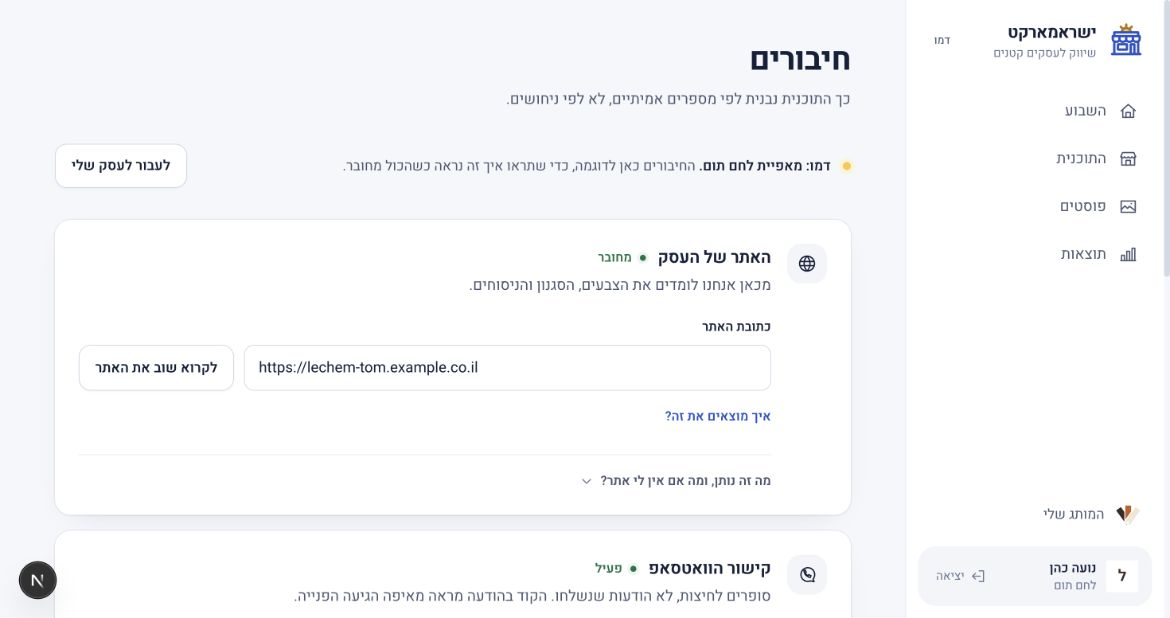
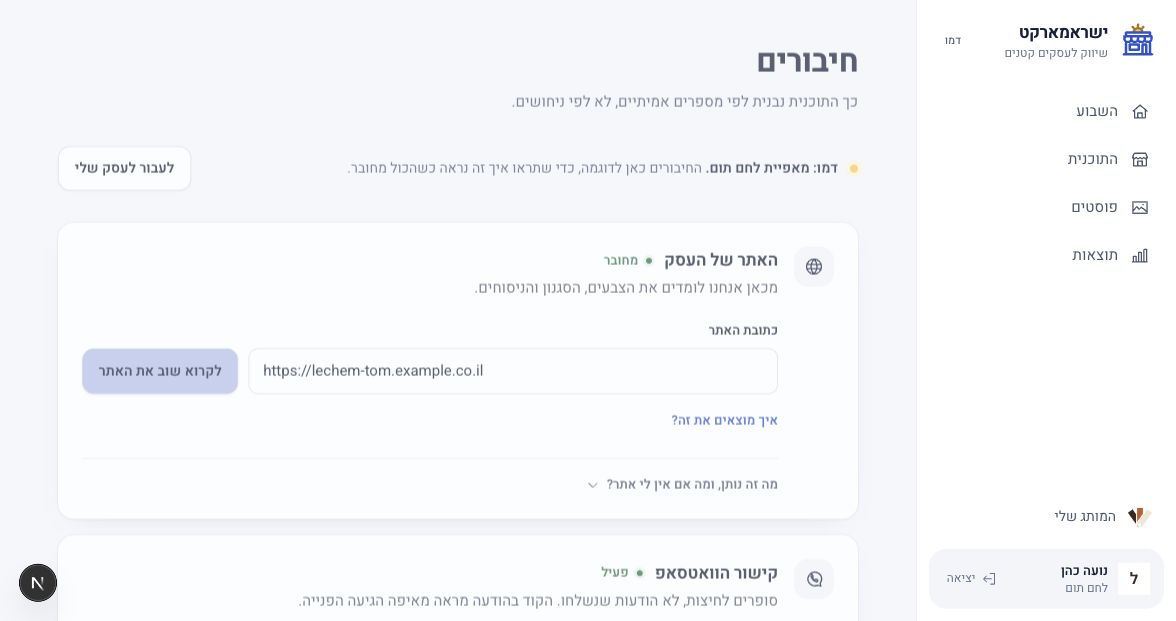
Refresh the flow map for verified GA4 source reads

diff --git a/web/lib/uxFlows.ts b/web/lib/uxFlows.ts
@@ -1,5 +1,5 @@
 /** A source-grounded review map, not an alternative onboarding implementation. */
-export const FLOW_SOURCE = "24a1ed8a071d61d3d52528aff7f6c5e76bfc5e54";
+export const FLOW_SOURCE = "ebfe6c245dab731bcf230f663e245e22303cb51d";
 export type FlowPersona = "store" | "designer" | "isramarket";
 export type FlowPhase = "before" | "after" | "ongoing";
 export type FlowCase = "normal" | "cancel" | "failure" | "missing";
@@ -61,7 +61,7 @@ export const FLOW_NODES: FlowNode[] = [
   post("dashboard", "כניסה ראשונה", "השבוע והצעד הבא", "/dashboard", "מה מקדם את התוכנית השבוע?", "הצעד הבא והתקדמות. הרשימה נגזרת ממצב העסק והדרישות הקיימות.", "להתחיל במדידה", "connections", "web/components/trial/TrialGuide.tsx", "הצעה #44: חיבור אחד מומלץ עם הסיבה שלו, בלי רשימת כלים ארוכה."),
   { ...post("connections", "מדידה", "בחירת חיבור", "/integrations", "מחברים את מה שיעזור לתוכנית", "העמוד הנוכחי מציג אתר, WhatsApp, Google ו-Meta. החיבור המודרך החדש הוא כרגע תצוגת UX נפרדת.", "נתוני האתר בדוגמה", "google", "web/app/integrations/page.tsx", "ליישם את /design/connections בחשבון אמיתי. פתיחת חלון הרשאה אינה הוכחת נתונים."), alternate: { label: "פייסבוק ואינסטגרם", next: "meta" }, branches: [{label:"קישור לשיחה",next:"whatsapp"},{label:"אם התוכנית דורשת כרטיס בגוגל",next:"gbp"}] },
   { ...post("google", "מדידה", "Google ונתוני האתר", "/integrations", "איזה אתר שייך לעסק?", "OAuth → בחירת נכס לפי שם → שמירת הנכס. חשבון הכניסה יכול להיות שונה מחשבון המדידה.", "החשבון נבחר", "baseline-post", "api/app/routers/integrations.py", "להראות מה חסר בפועל: חשבון לא נכון, גישה לנכס או קריאה שנכשלה."), alternate: {label:"הצעה: מצב קריאה מפורש",next:"source-read"}, recovery: "אפשר לחבר חשבון אחר. ביטול ההרשאה מחזיר לחיבורים. נכס לא מופיע כשאין גישה אליו; אין צורך להזין סיסמה אצלנו.", transition: "יוצאים לחלון Google, חוזרים ל-callback ולעמוד החיבורים; בוחרים את האתר לפי השם." },
-  { ...post("source-read", "מדידה", "קריאת הנתונים הראשונה", "/design/connections", "נבחר חשבון. עכשיו בודקים נתונים.", "הפרדה מפורשת בין הרשאה, בחירת נכס וקריאה שימושית: הודגם ב-UX, עדיין דורש חיבור מלא לחשבון האמיתי.", "לדמות קריאה מוצלחת", "baseline-post", "web/components/design/ConnectionWorkshop.tsx", "#45: נתונים חסרים אינם אפס. הצלחה נמדדת בקריאה אמיתית, עם זמן וטווח נתונים."), proposed: true, event: "source_read_succeeded", saved: "המצב הזה מקומי בתצוגת החיבורים. המכשור והמצב המלא עבור לקוח אמיתי עדיין פתוחים ב-#45.", recovery: "אין היסטוריה: מסבירים וממשיכים לאסוף. כשל גישה: מציעים חידוש. לא מוחקים את התוכנית." },
+  { ...post("source-read", "מדידה", "קריאת הנתונים הראשונה", "/integrations", "נבחר אתר. עכשיו בודקים נתונים.", "ב-Google, בחירת האתר מפעילה קריאה אמיתית ללא תלות בניתוח AI. הרשאה, בחירה, קריאה, נתונים וחידוש גישה מוצגים בנפרד. המצב המקביל ב-Meta עדיין פתוח ב-#45.", "לראות את התוצאות", "results", "api/app/services/ga4_readiness.py", "הקריאה הראשונה וההתאוששות נבדקו במבחנים ובדמו; עדיין נדרשת בדיקת חשבון לקוח חי וביקורת Claude."), event: "source_read_succeeded", saved: "מצב הקריאה, התקופה וזמן הקריאה נשמרים לעסק. מספרים שהתקבלו זמינים בתוצאות גם אם הניתוח לא הושלם. האירוע הוא הצעת מכשור, לא אירוע שנשלח כיום.", recovery: "אין שורות: אין מספרים מומצאים. כשל: ניסיון נוסף או חידוש גישה, עם שמירת התוצאות הקודמות ותאריך שלהן." },
   { ...post("meta", "מדידה", "עמוד Meta", "/integrations/meta/complete", "איזה עמוד שייך לעסק?", "OAuth → בחירת Page/Instagram מחובר. נתוני מודעות ו-Pixel הם בחירות נוספות, לא תנאי להצגת התוכנית.", "להמשיך עם העמוד", "baseline-post", "web/components/integrations/MetaConnection.tsx", "כדי שכל לקוח יוכל להתחבר, עדיין נדרש App Review. חשבון Meta אישי הוא מנהל, לא מותג העסק."), alternate: { label: "להוסיף מודעות ו-Pixel", next: "pixel" }, recovery: "אין Page מתאים: בודקים את חשבון המנהל ואת הגישה לעמוד. מחברים מחדש כשצריך הרשאות; לא מדווחים על חיבור שלא הצליח." },
   { ...post("pixel", "מדידה", "מודעות ו-Pixel", "/integrations", "האם האתר מודד את הביקורים?", "בחירת חשבון מודעות ו-Pixel של העסק. הנחיות לפי Wix, Shopify, WordPress או אתר אחר; בדיקה מול Meta.", "להמשיך בלי להמתין ל-Pixel", "baseline-post", "web/components/integrations/PixelSetupGuide.tsx", "לא להגדיר Pixel של לקוח אחד לכל העסקים. לבחור לפי שם, והפרטים הטכניים מאחורי הרחבה."), recovery: "אין אות קליטה: מתקינים באתר, פותחים אותו ומנסים שוב. הבחירה והבדיקה הן פעולות נפרדות; Meta יכול להחזיר מידע באיחור." },
   { ...post("whatsapp", "מדידה", "קישור WhatsApp", "/integrations#whatsapp", "איך מגיעים אליכם לשיחה?", "מספר עסק וקישור עם הודעה מוכנה. קישורים מסומנים מפרידים בין מקור אחד לאחר.", "לעבור לנקודת הפתיחה", "baseline-post", "web/lib/whatsapp.ts", "לחיצה לקישור אינה הודעה שנשלחה, פנייה מתאימה או לקוח. לא להציג את כולם כאותו מדד."), recovery: "אפשר לתקן את מספר העסק ולבדוק את הקישור. אין קריאת תוכן של שיחות WhatsApp מהקישור הזה." },

diff --git a/docs/user-flows.md b/docs/user-flows.md
@@ -148,6 +148,13 @@ The landing, dashboard and Posts captures were refreshed on 2 October against
 its Posts capture does not demonstrate the first-ever publication priority. That condition
 is covered by the trial regressions; the actual customer pilot remains #66.
 
+The integrations and Results captures were refreshed on 2 October against
+`ebfe6c245dab731bcf230f663e245e22303cb51d`, through the synthetic bakery demo. GA4
+selection now performs an initial read and records its source state. These captures show
+the demo route, not evidence of a live customer's OAuth grant or report. The actual
+connection-state component can also be rehearsed at `/design/connections`. Meta readiness
+and the live customer read remain open under #45.
+
 Routes: `/`, `/login`, `/signup`, `/strategy?welcome=1` (plan), `/strategy?tour=1`
 (optional welcome), `/dashboard`, `/integrations`, `/baseline`, `/featured`, `/assets`,
 `/voice`, `/posts`, `/performance`, `/decisions`, `/strategy`, `/billing`. Capture the
